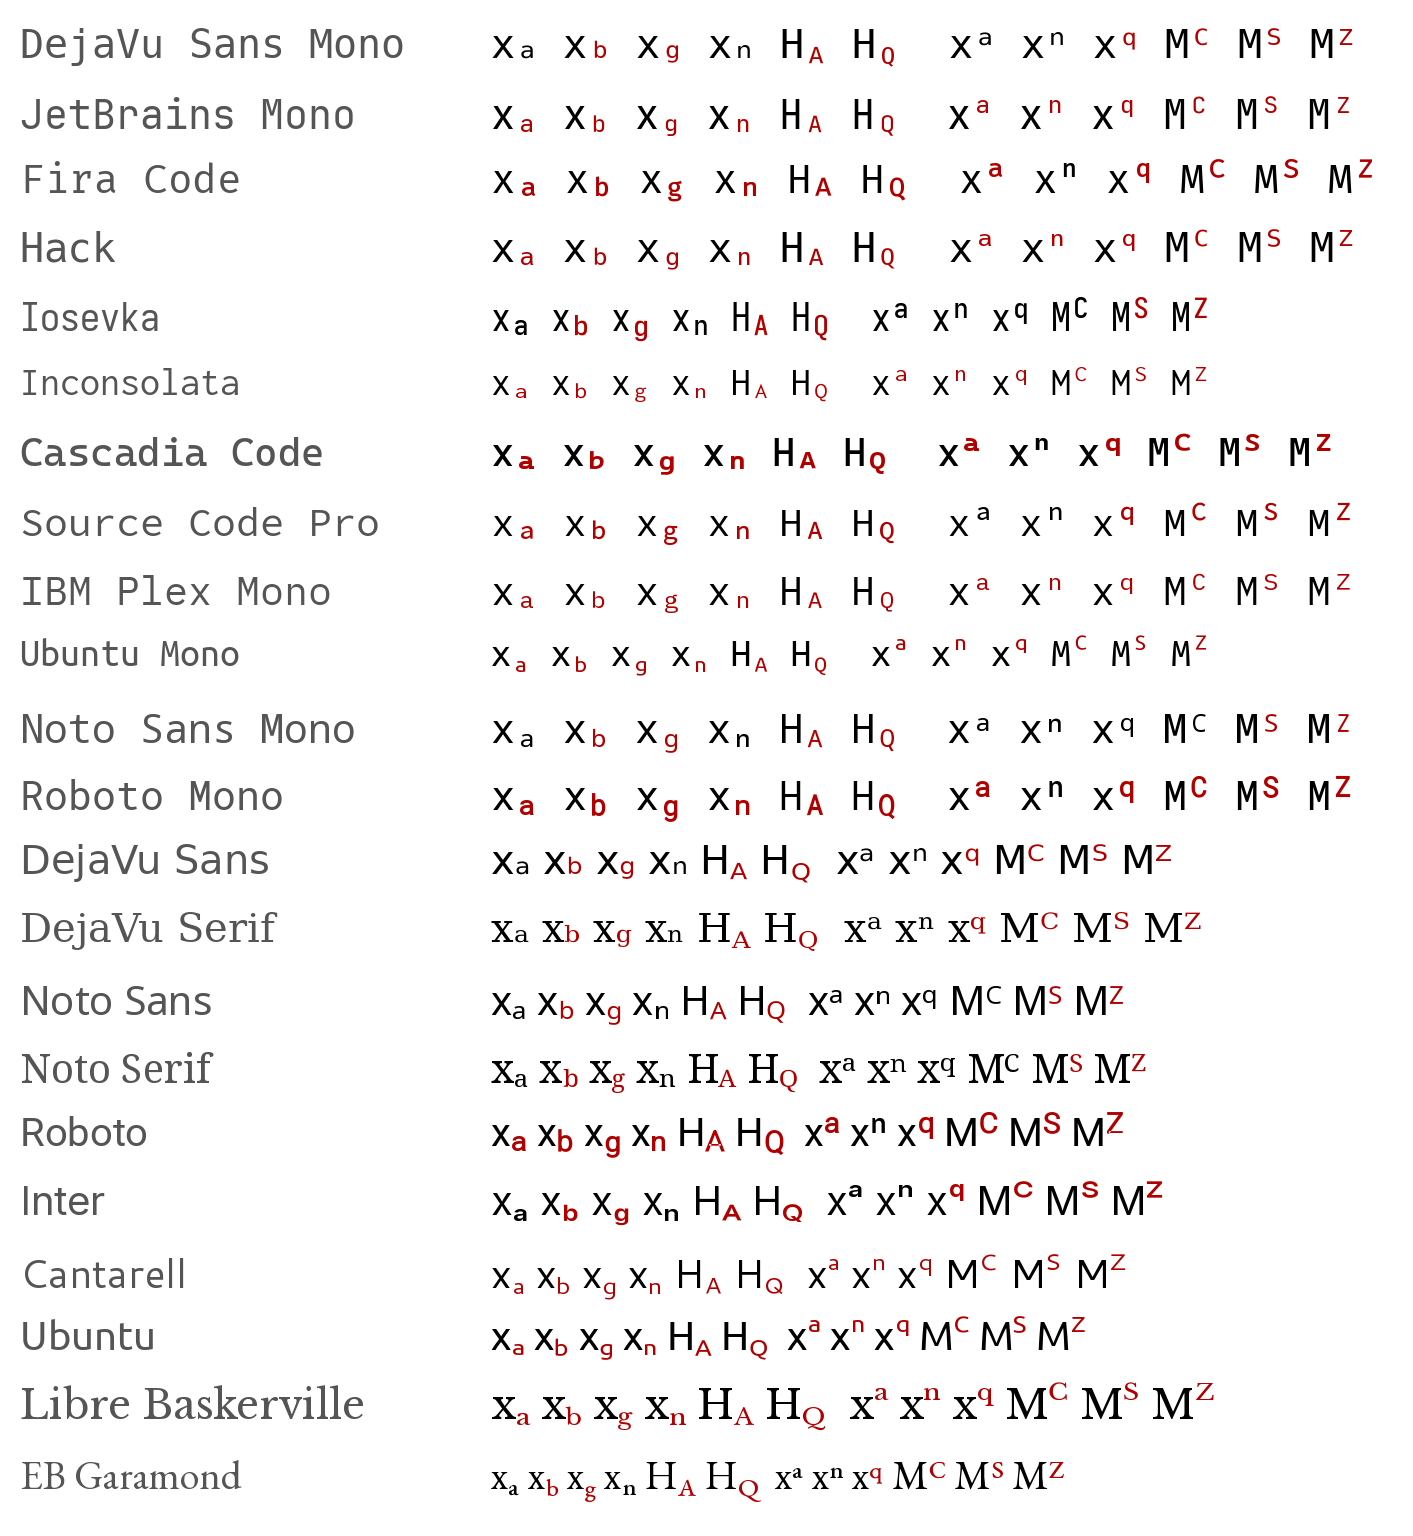
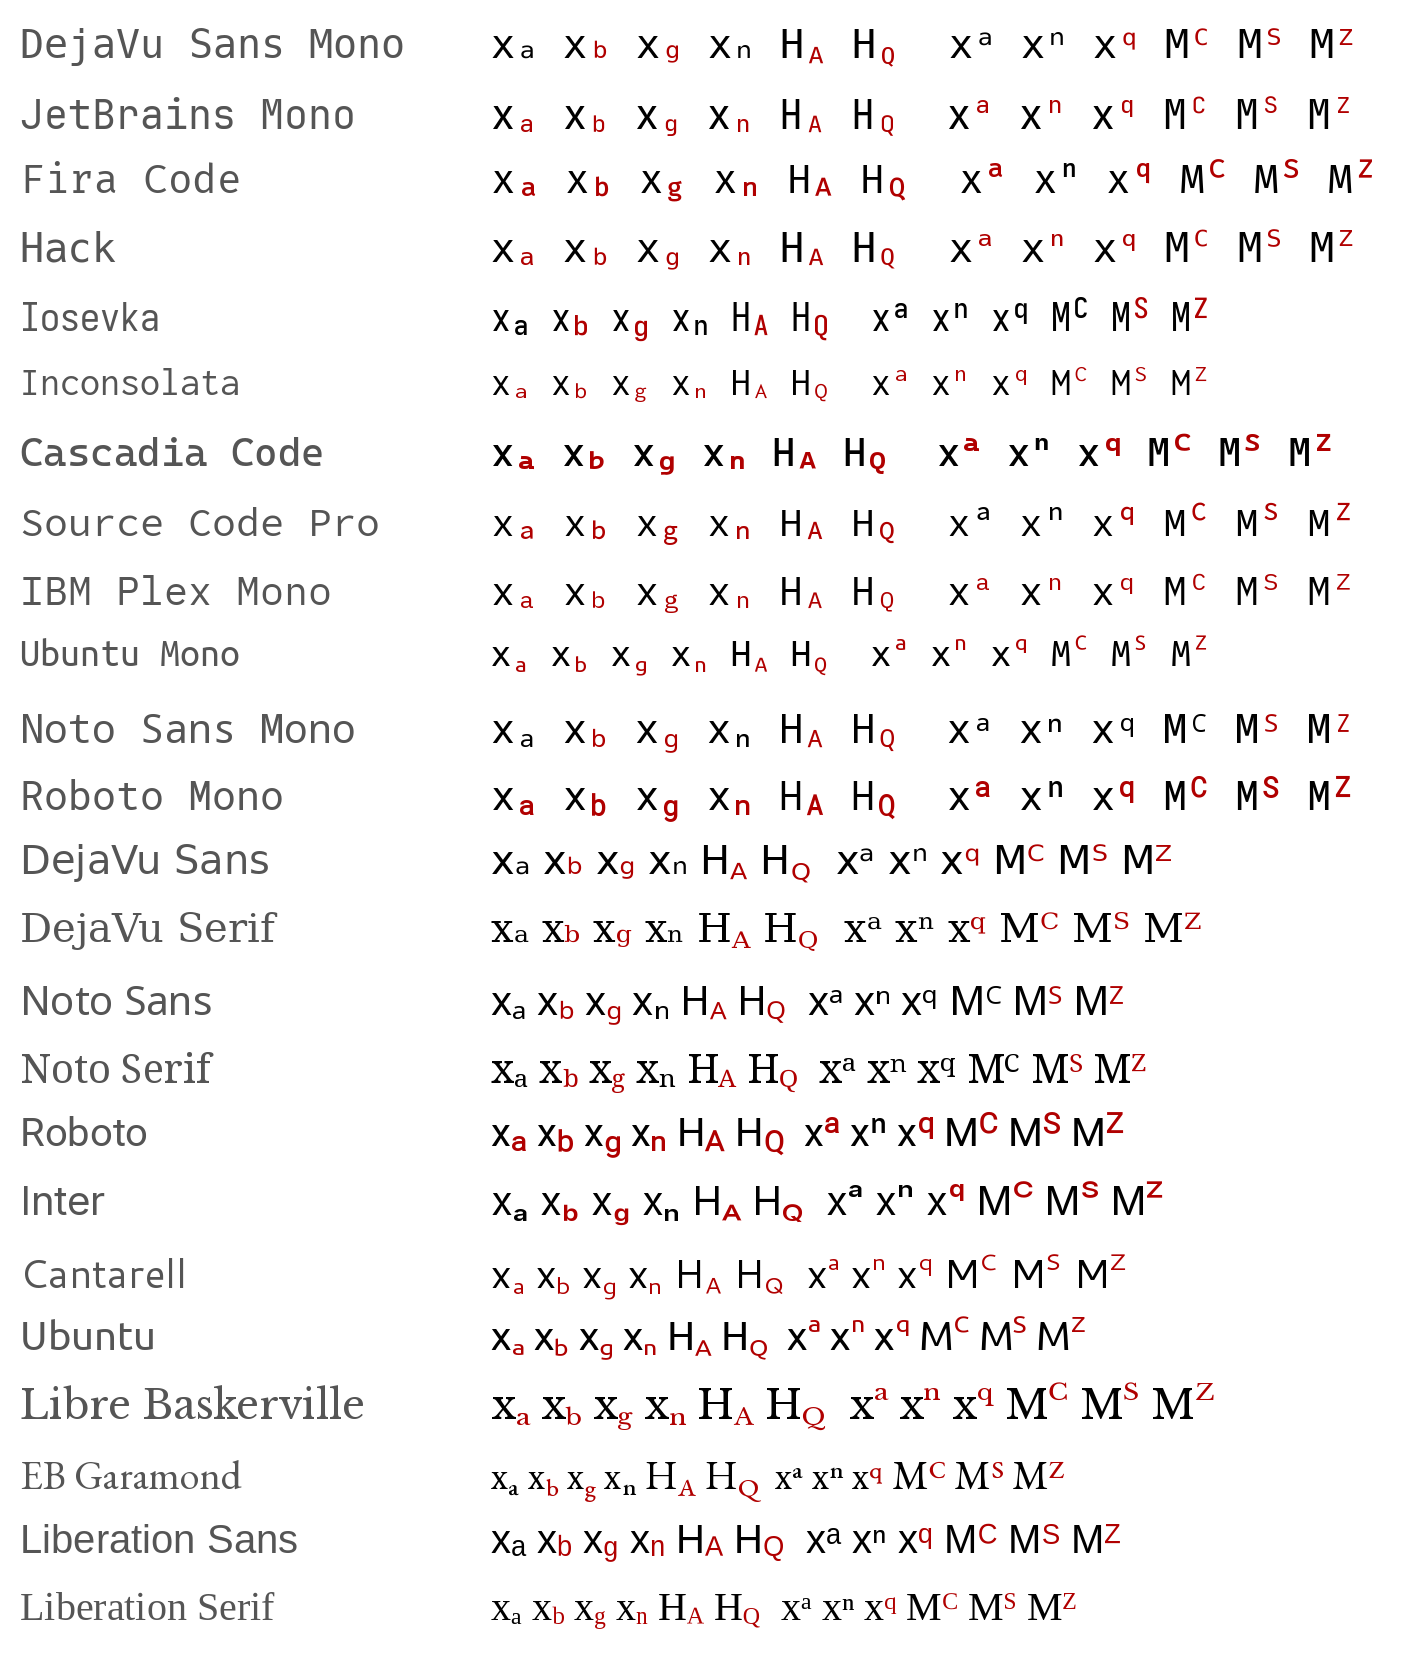
[c] add Literation Sans and Serif Scripts, the companions for Liberation Sans and Serif

diff --git a/README.md b/README.md
@@ -36,20 +36,22 @@ Monospace:
 
 Proportional:
 
-| Companion            | For                     | License                                                          |
-| -------------------- | ----------------------- | ---------------------------------------------------------------- |
-| DejaVu Sans Scripts  | DejaVu Sans 2.37        | Bitstream Vera license, with DejaVu changes in the public domain |
-| DejaVu Serif Scripts | DejaVu Serif 2.37       | Bitstream Vera license, with DejaVu changes in the public domain |
-| Noto Sans Scripts    | Noto Sans 2.015         | OFL 1.1                                                          |
-| Noto Serif Scripts   | Noto Serif 2.015        | OFL 1.1                                                          |
-| Roboto Scripts       | Roboto 3.015            | OFL 1.1                                                          |
-| Inter Scripts        | Inter 4.001             | OFL 1.1                                                          |
-| Cantarell Scripts    | Cantarell 1.004         | OFL 1.1                                                          |
-| Teranga Scripts      | Ubuntu 0.83             | Ubuntu Font Licence 1.0                                          |
-| Baskerville Scripts  | Libre Baskerville 2.005 | OFL 1.1                                                          |
-| EB Garamond Scripts  | EB Garamond 1.003       | OFL 1.1                                                          |
+| Companion                | For                     | License                                                          |
+| ------------------------ | ----------------------- | ---------------------------------------------------------------- |
+| DejaVu Sans Scripts      | DejaVu Sans 2.37        | Bitstream Vera license, with DejaVu changes in the public domain |
+| DejaVu Serif Scripts     | DejaVu Serif 2.37       | Bitstream Vera license, with DejaVu changes in the public domain |
+| Noto Sans Scripts        | Noto Sans 2.015         | OFL 1.1                                                          |
+| Noto Serif Scripts       | Noto Serif 2.015        | OFL 1.1                                                          |
+| Roboto Scripts           | Roboto 3.015            | OFL 1.1                                                          |
+| Inter Scripts            | Inter 4.001             | OFL 1.1                                                          |
+| Cantarell Scripts        | Cantarell 1.004         | OFL 1.1                                                          |
+| Teranga Scripts          | Ubuntu 0.83             | Ubuntu Font Licence 1.0                                          |
+| Baskerville Scripts      | Libre Baskerville 2.005 | OFL 1.1                                                          |
+| EB Garamond Scripts      | EB Garamond 1.003       | OFL 1.1                                                          |
+| Literation Sans Scripts  | Liberation Sans 2.1.5   | OFL 1.1                                                          |
+| Literation Serif Scripts | Liberation Serif 2.1.5  | OFL 1.1                                                          |
 
-Cascadia Code, Source Code Pro, and IBM Plex Mono have Reserved Font Names, so modified versions cannot use their names. Their companions use the names [Nerd Fonts](https://github.com/ryanoasis/nerd-fonts) chose for the same reason. Libre Baskerville reserves its name too, so its companion is Baskerville Scripts. The Ubuntu Font Licence requires a version as changed as a companion to avoid the Ubuntu name entirely, so the Ubuntu and Ubuntu Mono companions are Teranga Scripts and Teranga Mono Scripts.
+Cascadia Code, Source Code Pro, and IBM Plex Mono have Reserved Font Names, so modified versions cannot use their names. Their companions use the names [Nerd Fonts](https://github.com/ryanoasis/nerd-fonts) chose for the same reason. Libre Baskerville reserves its name too, so its companion is Baskerville Scripts, and Liberation Sans and Serif reserve theirs, so theirs follow Nerd Fonts' Literation Mono. The Ubuntu Font Licence requires a version as changed as a companion to avoid the Ubuntu name entirely, so the Ubuntu and Ubuntu Mono companions are Teranga Scripts and Teranga Mono Scripts.
 
 Each folder in `fonts/` holds the companion, the license of the font it was made from (which also covers the companion), and config snippets: kitty, Ghostty, and fontconfig for monospace companions, and fontconfig alone for proportional ones, since the terminal snippets only matter in terminals. Each companion holds only the letters its font lacks, between 39 and 104 of them.
 
